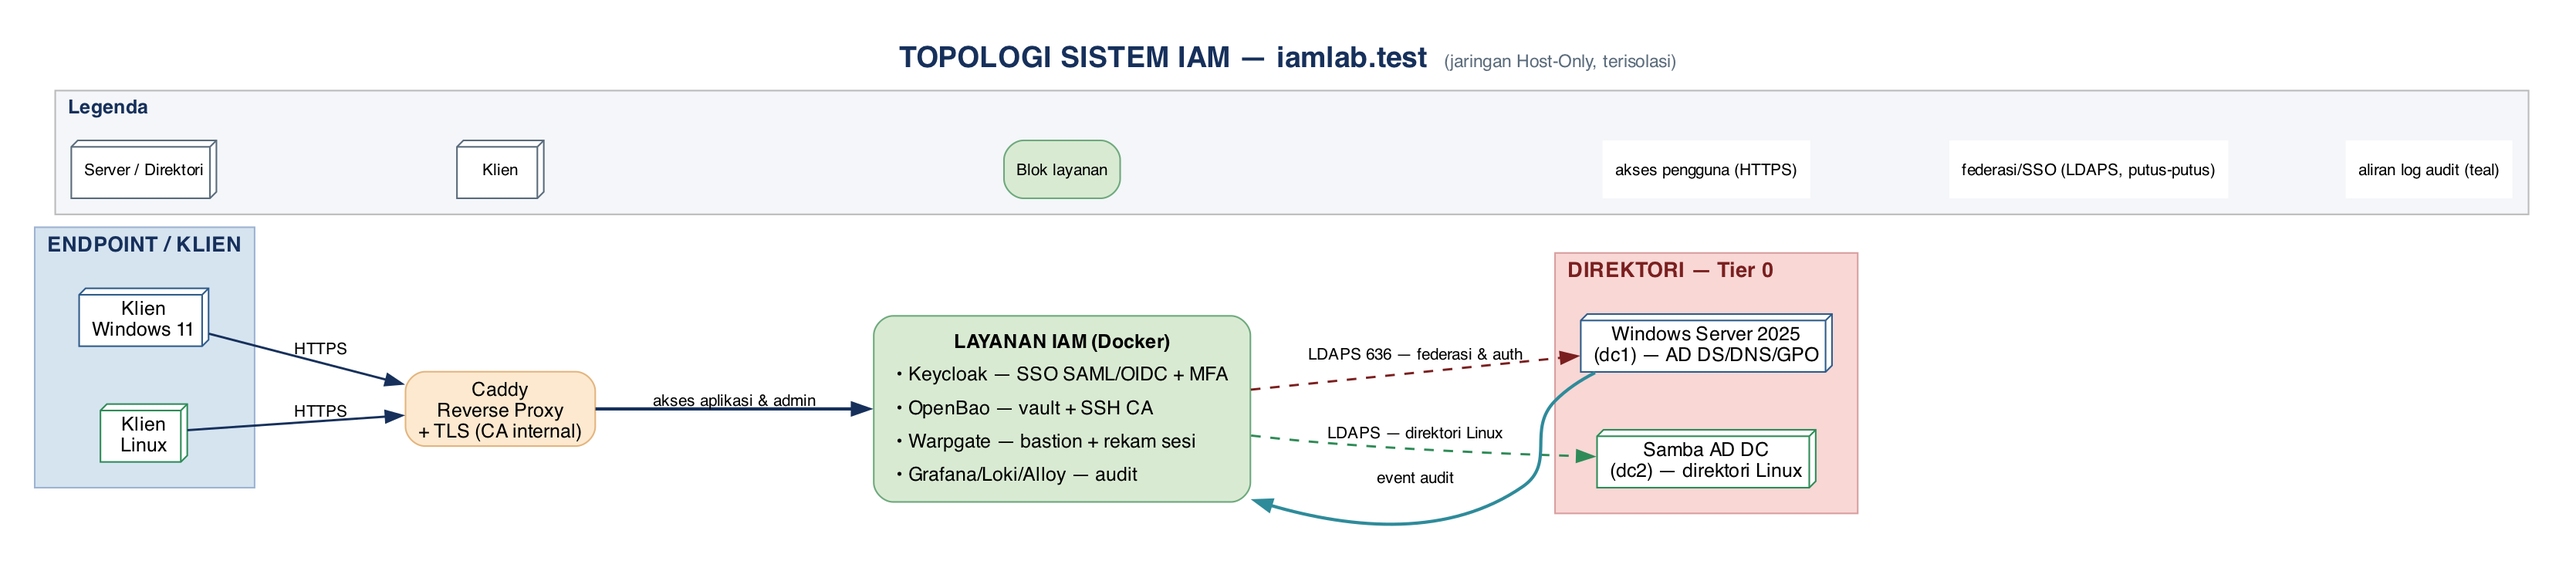
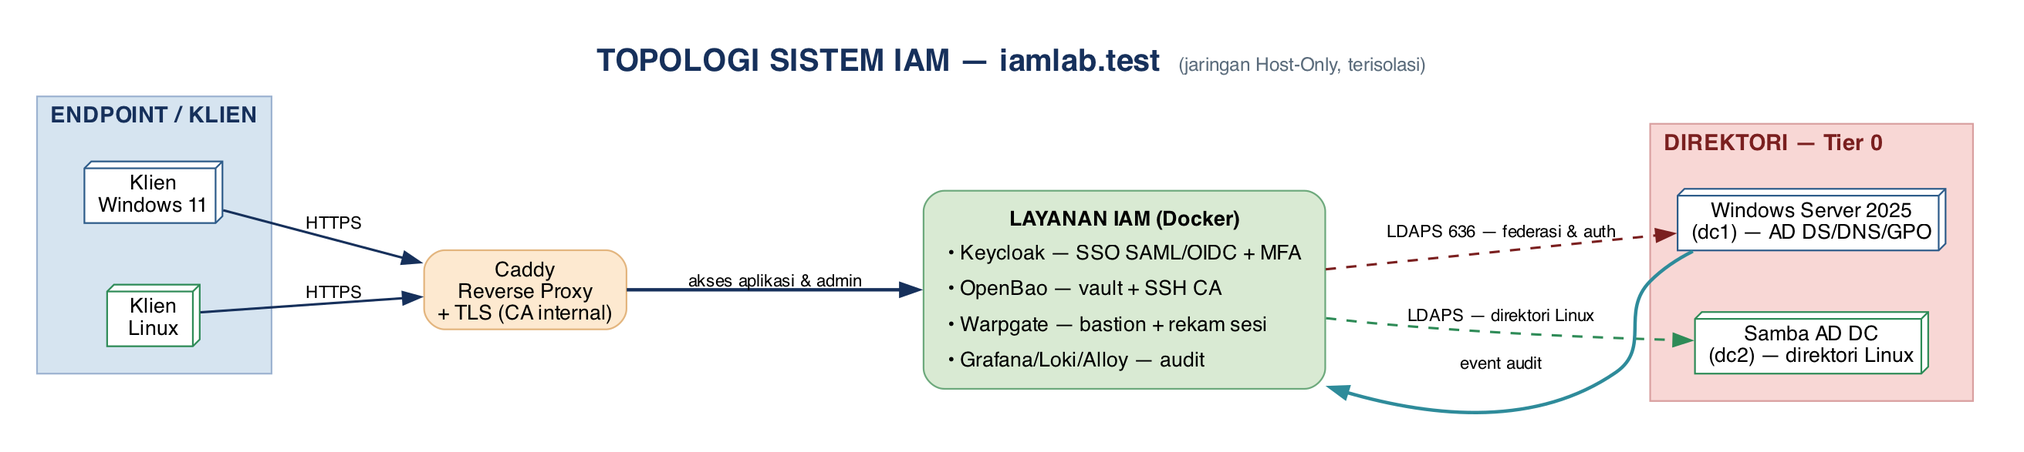
Sesi 0: topologi lengkap (legenda dipindah ke teks README, bukan di dalam gambar)
- Hapus kotak legenda dari dalam diagram agar layout tidak terpotong → gambar kini lengkap
- Legenda ditulis sebagai teks di bawah gambar (zona, bentuk node, arti garis panah)

diff --git a/sesi-0-pengantar/README.md b/sesi-0-pengantar/README.md
@@ -84,6 +84,16 @@ sebagai container Docker di belakang satu reverse proxy (Caddy) dengan TLS dari 
 
 ![Topologi sistem IAM — 4 sistem (Windows Server AD, Samba AD, klien Windows & Linux) + layanan IAM, domain iamlab.test](gambar/topologi.png)
 
+**Legenda:**
+- 🟦 **Zona Endpoint/Klien** — perangkat pengguna (klien Windows 11 & Linux).
+- 🟥 **Zona Direktori (Tier 0)** — server identitas: Windows Server 2025 (`dc1`) untuk sisi
+  Windows, Samba AD DC (`dc2`) untuk sisi Linux.
+- 🟩 **Blok Layanan IAM (Docker)** — Keycloak, OpenBao, Warpgate, Grafana/Loki/Alloy, di
+  belakang **Caddy** (reverse proxy + TLS CA internal).
+- **Garis panah:** garis penuh = akses pengguna/aplikasi (HTTPS); **putus-putus** =
+  federasi/autentikasi ke direktori (LDAPS 636); **teal** = aliran event audit ke pemantauan.
+- Kotak **box-3D** = server/direktori; kotak biasa = klien; kotak membulat = layanan/proxy.
+
 **Aliran data inti:** pengguna membuka aplikasi → diarahkan ke **Keycloak** →
 Keycloak memverifikasi kredensial ke **AD** (LDAPS) dan meminta **MFA** bila perlu →
 menerbitkan token → aplikasi memberi akses sesuai peran (klaim grup). Semua aktivitas
